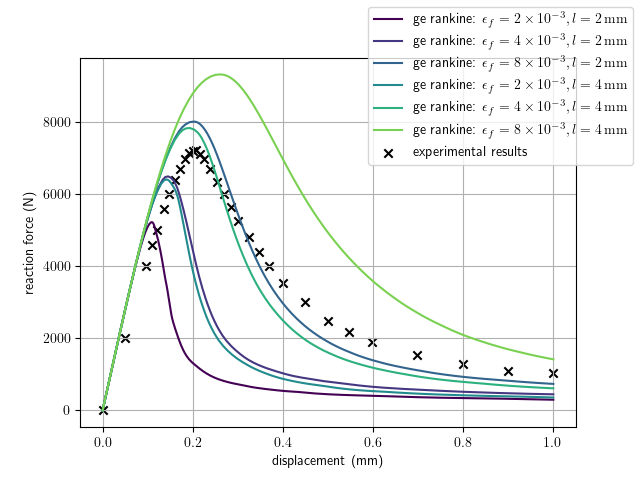
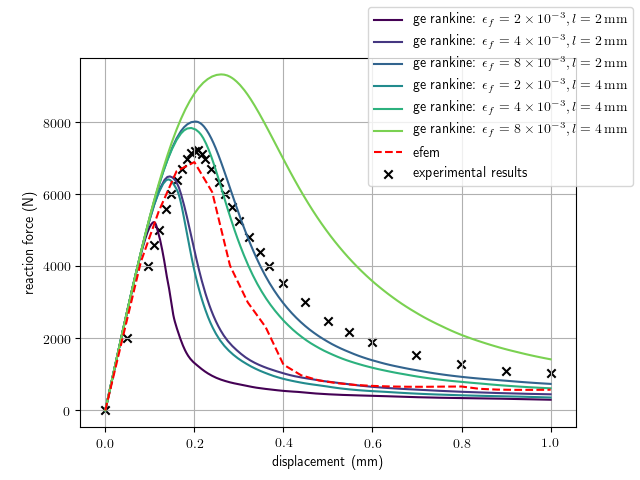
Adding efem files-1

diff --git a/plot_load_displacement_curves_comparison.py b/plot_load_displacement_curves_comparison.py
@@ -44,6 +44,20 @@ for color , (f, lab) in zip (colors_rankine, files_gradient_enhanced_rankine.ite
 # end plot gradient_enhanced_rankine curves
 
 
+# plot the efem results
+files_efem = {'./embedded_fem/efem.csv' : r'efem',}
+
+for (f, lab) in files_efem.items():
+    
+    data = np.loadtxt ( f, delimiter=' ', skiprows=0)
+
+    U = data[:,0]
+    RF = data[:,1]
+
+    ax.plot(U, RF, label=lab, c = 'r', linestyle = '--')
+# end plot gradient_enhanced_rankine curves
+
+
 
 # make plots readable
 ax.set_xlabel('displacement (mm)')
